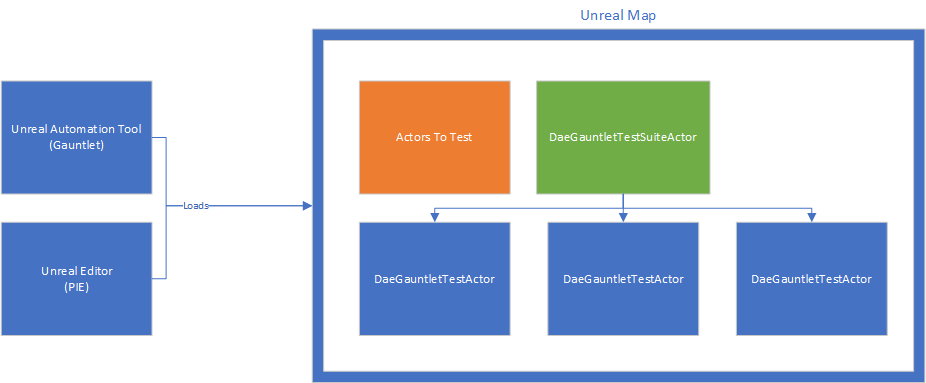
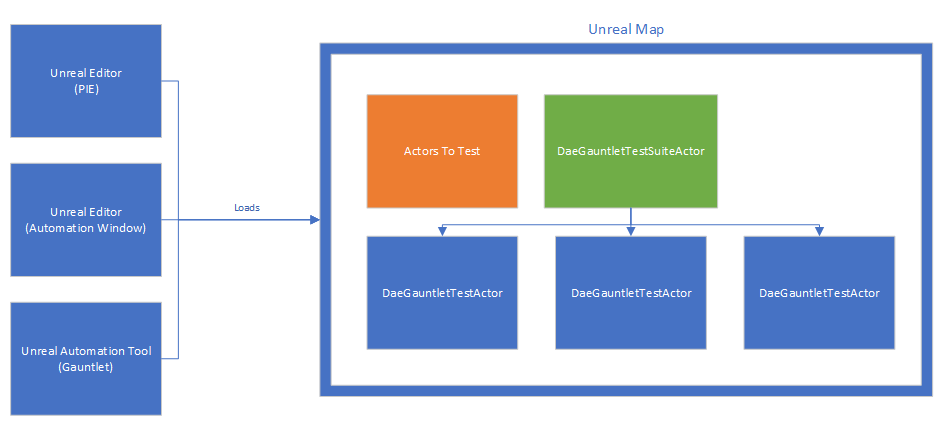
Update documentation prerequisities and images to account for the fact that you can run tests with the Automation Window now as well.

Changed region(s): [[0.0, 0.0287, 1.0, 1.0], [0.4233, 0.3446, 0.514, 0.3734]]

diff --git a/README.md b/README.md
@@ -2,7 +2,7 @@
 
 [![license](https://img.shields.io/github/license/DaedalicEntertainment/ue4-test-automation.svg?maxAge=2592000)](https://github.com/DaedalicEntertainment/ue4-test-automation/blob/develop/LICENSE)
 
-The _Daedalic Test Automation Plugin_ facilitates creating integration tests with the [Gauntlet Automation Framework](https://docs.unrealengine.com/en-US/Programming/Automation/Gauntlet/index.html) of [Unreal Engine 4](https://www.unrealengine.com).
+The _Daedalic Test Automation Plugin_ facilitates creating and running integration tests with the [Gauntlet Automation Framework](https://docs.unrealengine.com/en-US/Programming/Automation/Gauntlet/index.html) of [Unreal Engine 4](https://www.unrealengine.com).
 
 Automated testing, when applied instead of or in addition to manual testing, provides multiple benefits:
 
@@ -12,10 +12,6 @@ Automated testing, when applied instead of or in addition to manual testing, pro
 * _Increased stability_. Being able to run automated tests greatly increases the confidence of the development team when applying bigger changes to the code base, allowing them to catch regressions early (e.g. after optimizing performance).
 
 After using the plugin for automating tests of _The Lord of the Rings™: Gollum™_, we decided to share it with the rest of the world. We feel like software testing is far too important not to be supported by automation, and test automation still hasn't fully found its way into game development. We believe that this is party because creating automated tests for games tends to be tedious, and we want to improve on that.
-
-Supported Unreal Engine Versions:
-
-* 4.23
 
 
 ## Contents
@@ -45,9 +41,18 @@ Supported Unreal Engine Versions:
 1. [License](#license)
 1. [References](#references)
 
+
 ## Setup
 
-Note that the plugin relies on Gauntlet, and thus currently requires both a source version of the engine and a C++ Unreal project.
+### Prerequisites
+
+Daedalic Test Automation Plugin currently supports the following Unreal Engine Versions:
+
+* 4.23
+
+Note that you currently have to compile the plugin yourself, and thus need a C++ Unreal project.
+
+If you want to use [Gauntlet](#gauntlet) for running your tests, you'll need a source version of Unreal Engine as well.
 
 ### Adding The Plugin
 
@@ -59,17 +64,6 @@ Note that the plugin relies on Gauntlet, and thus currently requires both a sour
 1. Build the resulting solution in Visual Studio.
 1. Start the Unreal Editor.
 1. Enable the plugin in Edit > Plugins > Daedalic Entertainment.
-
-### Setting Up The Environment
-
-Because the Daedalic Test Automation Plugin uses Gauntlet for running automated tests, but we don't want to force you to modify your version of Unreal Engine, we need to know where your source version of the engine can be found on disk.
-
-Set the `UNREAL_ENGINE_4_PATH` environment variable to the root folder of your source checkout, e.g. the directory that contains files like `Setup.bat` or `GenerateProjectFiles.bat`. 
-
-Note that you might need to restart your shells and/or Visual Studio in order to have your changes take effect.
-
-If everything is set up correctly, `DaedalicTestAutomationPlugin.Automation` will be discovered when generating your project files (because the engine finds it in your Build directory). The project will then use your environment variable to publish its build results to the `Engine\Binaries\DotNET\AutomationScripts` folder your engine, where they can be discovered by the Unreal Automation Tool for running Gauntlet.
-
 
 ## Creating Tests
 
@@ -251,7 +245,15 @@ In order to run multiple tests from command-line (e.g. as part of your CI/CD pip
 
 ![Running Tests](Documentation/RunningTests.png)
 
-Here's an example command line to get started:
+When using Gauntlet for running automated tests, as we don't want to force you to modify your version of Unreal Engine, we need to know where your source version of the engine can be found on disk.
+
+Set the `UNREAL_ENGINE_4_PATH` environment variable to the root folder of your source checkout, e.g. the directory that contains files like `Setup.bat` or `GenerateProjectFiles.bat`. 
+
+Note that you might need to restart your shells and/or Visual Studio in order to have your changes take effect.
+
+If everything is set up correctly, `DaedalicTestAutomationPlugin.Automation` will be discovered when generating your project files (because the engine finds it in your Build directory). The project will then use your environment variable to publish its build results to the `Engine\Binaries\DotNET\AutomationScripts` folder your engine, where they can be discovered by the Unreal Automation Tool for running Gauntlet.
+
+Now, here's an example command line to get started:
 
 ```
 "C:\Projects\UnrealEngine\Engine\Build\BatchFiles\RunUAT.bat"
